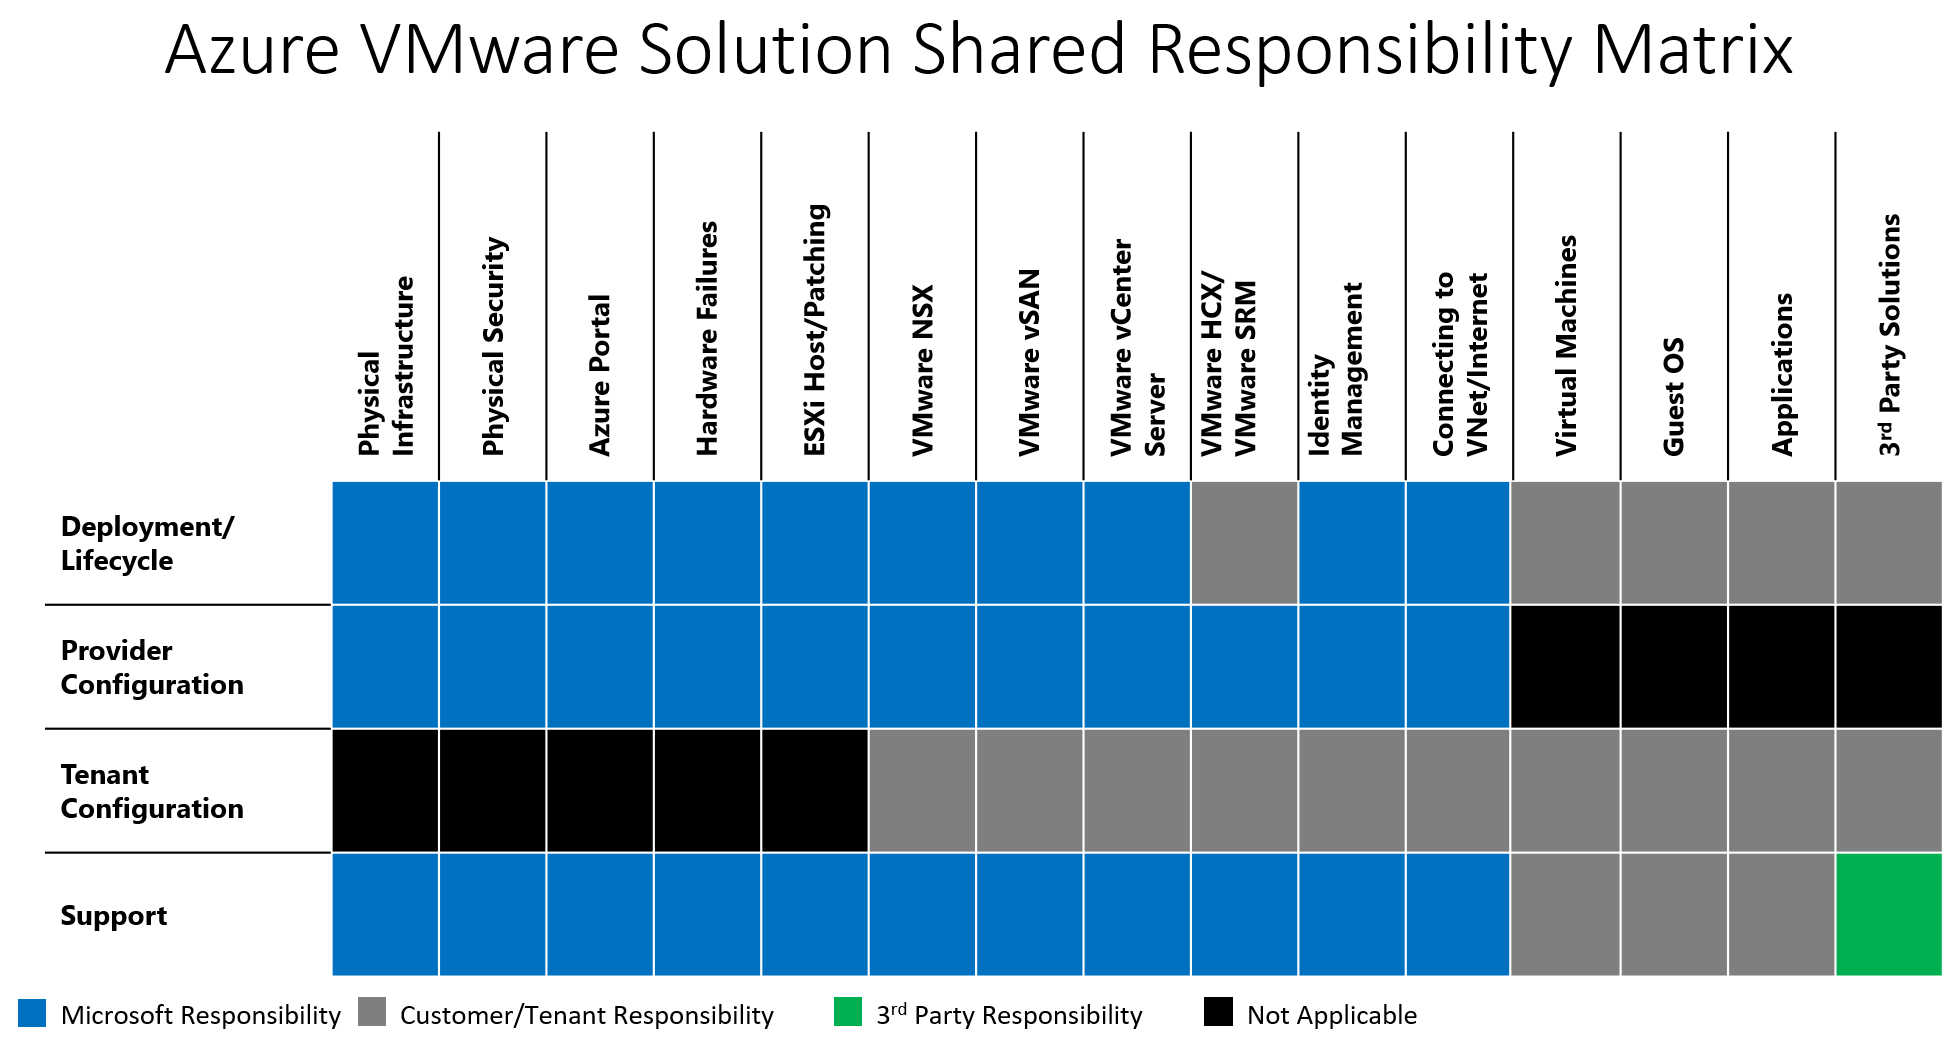
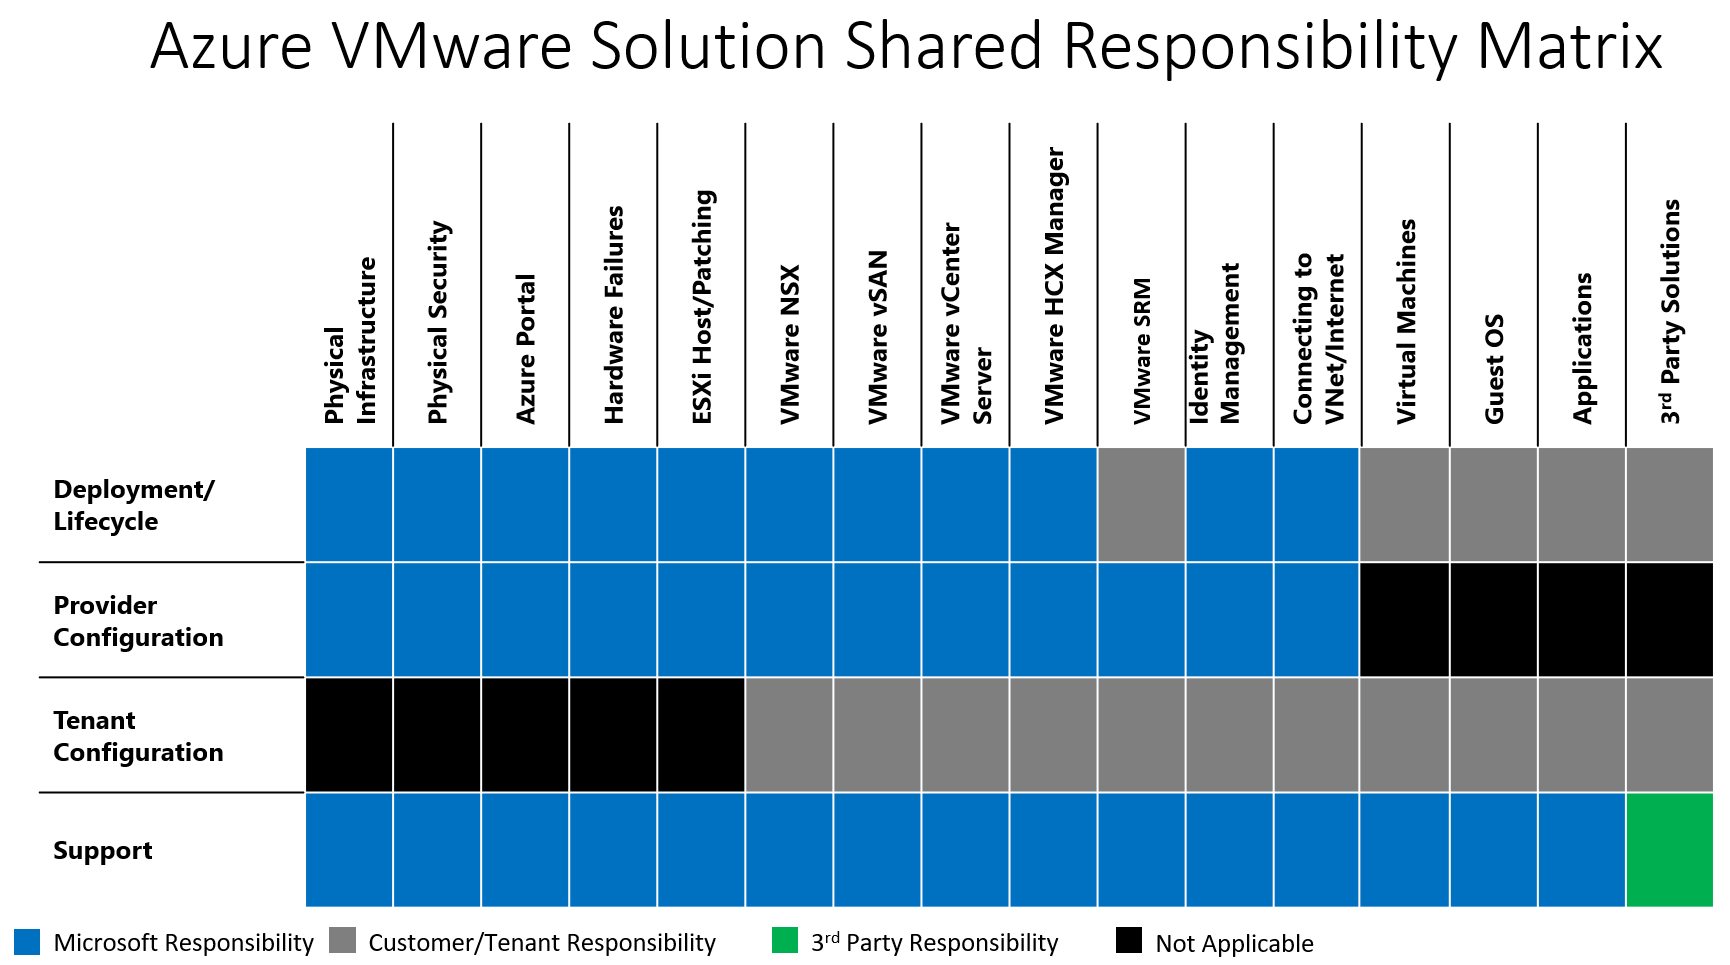
HCX cleanup

Changed region(s): [[0.0, 0.1244, 0.9988, 0.9948], [0.0624, 0.0, 0.9676, 0.0933], [0.0312, 0.8705, 0.0936, 0.9016]]

diff --git a/articles/azure-vmware/introduction.md b/articles/azure-vmware/introduction.md
@@ -3,9 +3,8 @@ title: Introduction
 description: Learn the features and benefits of Azure VMware Solution to deploy and manage VMware-based workloads in Azure.
 ms.topic: overview
 ms.service: azure-vmware
-ms.date: 8/14/2025
+ms.date: 4/24/2025
 ms.custom: engagement-fy23
-# Customer intent: As a cloud architect, I want to deploy and manage VMware-based workloads in Azure using a dedicated private cloud solution, so that I can leverage Azure's infrastructure while maintaining VMware compatibility and maximizing operational efficiency.
 ---
 
 # What is Azure VMware Solution?
@@ -34,7 +33,7 @@ You can deploy new or scale existing private clouds through the Azure portal or 
 
 ## Azure VMware Solution private cloud extension with AV64 node size
 
-The AV64 is an Azure VMware Solution host SKU, which is available to expand the Azure VMware Solution private cloud built with the existing AV36, AV36P, or AV52 SKU. If you want to deploy AV64 directly, refer to [Azure VMware Solution Generation 2](native-introduction.md). Use the [Microsoft documentation](https://azure.microsoft.com/explore/global-infrastructure/products-by-region/?products=azure-vmware) to check for availability of the AV64 SKU in the region. 
+The AV64 is an Azure VMware Solution host SKU, which is available to expand the Azure VMware Solution private cloud built with the existing AV36, AV36P, or AV52 SKU. If you want to deploy AV64 directly, refer to [Azure VMWare Solution in an Azure Virtual Network](native-introduction.md). Use the [Microsoft documentation](https://azure.microsoft.com/explore/global-infrastructure/products-by-region/?products=azure-vmware) to check for availability of the AV64 SKU in the region. 
 
 :::image type="content" source="media/introduction/av64-mixed-sku-topology.png" alt-text="Diagram showing Azure VMware Solution private cloud with AV64 SKU in mixed SKU configuration." border="false" lightbox="media/introduction/av64-mixed-sku-topology.png":::
 
@@ -138,7 +137,7 @@ Azure VMware Solution doesn't store customer data.
 
 ## Host and software lifecycle maintenance
 
-Regular upgrades of the Azure VMware Solution private cloud and VMware software ensure the latest security, stability, and feature sets are running in your private clouds. For more information, see [Host maintenance and lifecycle management](azure-vmware-solution-private-cloud-maintenance-best-practices.md#host-maintenance-and-lifecycle-management).
+Regular upgrades of the Azure VMware Solution private cloud and VMware software ensure the latest security, stability, and feature sets are running in your private clouds. For more information, see [Host maintenance and lifecycle management](azure-vmware-solution-host-remediation.md#host-maintenance-and-lifecycle-management).
 
 ## Monitoring your private cloud
 
@@ -171,7 +170,7 @@ The following table provides a detailed list of roles and responsibilities betwe
 | **Role** | **Task/details** |
 | -------- | ---------------- |
 | Microsoft - Azure VMware Solution | Physical infrastructure<ul><li>Azure regions</li><li>Azure availability zones</li><li>Express Route/Global Reach</ul></li>Compute/Network/Storage<ul><li>Rack and power Bare Metal hosts</li><li>Rack and power network equipment</ul></li>Private cloud deploy/lifecycle<ul><li>VMware ESXi deploy, patch, and upgrade</li><li>VMware vCenter Servers deploy, patch, and upgrade</li><li>VMware NSX deploy, patch, and upgrade</li><li>VMware vSAN deploy, patch, and upgrade</ul></li>Private cloud Networking - VMware NSX provider config<ul><li>Microsoft Edge node/cluster, VMware NSX host preparation</li><li>Provider Tier-0 and Tenant Tier-1 Gateway</li><li>Connectivity from Tier-0 (using BGP) to Azure Network via ExpressRoute</ul></li>Private cloud compute - VMware vCenter Server provider config<ul><li>Create default cluster</li><li>Configure virtual networking for vMotion, Management, vSAN, and others</ul></li>Private cloud backup/restore<ul><li>Back up and restore VMware vCenter Server</li><li>Back up and restore VMware NSX Manager</ul></li>Private cloud health monitoring and corrective actions, for example: replace failed hosts</br><br>(optional) VMware HCX deploys with fully configured compute profile on cloud side as add-on</br><br>(optional) VMware SRM deploys, upgrade, and scale up/down</br><br>Support - Private cloud platforms and VMware HCX      |
-| Customer | Request Azure VMware Solution host quote with Microsoft<br>Plan and create a request for private clouds on Azure portal with:<ul><li>Host count</li><li>Management network range</li><li>Other information</ul></li>Configure private cloud network and security (VMware NSX)<ul><li>Network segments to host applications</li><li>More Tier -1 routers</li><li>Firewall</li><li>VMware NSX LB</li><li>IPsec VPN</li><li>NAT</li><li>Public IP addresses</li><li>Distributed firewall/gateway firewall</li><li>Network extension using VMware HCX or VMware NSX</li><li>AD/LDAP config for RBAC</ul></li>Configure private cloud - VMware vCenter Server<ul><li>AD/LDAP config for RBAC</li><li>Deploy and lifecycle management of Virtual Machines (VMs) and application<ul><li>Install operating systems</li><li>Patch operating systems</li><li>Install antivirus software</li><li>Install backup software</li><li>Install configuration management software</li><li>Install application components</li><li>VM networking using VMware NSX segments</ul></li><li>Migrate Virtual Machines (VMs)<ul><li>VMware HCX configuration</li><li>Live vMotion</li><li>Cold migration</li><li>Content library sync</ul></li></ul></li>Configure private cloud - vSAN<ul><li>Define and maintain vSAN VM policies</li><li>Add hosts to maintain adequate 'slack space'</ul></li>Configure VMware HCX<ul><li>Download and deploy HCA connector OVA in on-premises</li><li>Pairing on-premises VMware HCX connector</li><li>Configure the network profile, compute profile, and service mesh</li><li>Configure VMware HCX network extension/MON</li><li>Upgrade/updates</ul></li>Network configuration to connect to on-premises, virtual network, or internet</br><br>Add or delete hosts requests to cluster from Portal</br><br>Deploy/lifecycle management of partner (third party) solutions      |
+| Customer | Request Azure VMware Solution host quote with Microsoft<br>Plan and create a request for private clouds on Azure portal with:<ul><li>Host count</li><li>Management network range</li><li>Other information</ul></li>Configure private cloud network and security (VMware NSX)<ul><li>Network segments to host applications</li><li>More Tier -1 routers</li><li>Firewall</li><li>VMware NSX LB</li><li>IPsec VPN</li><li>NAT</li><li>Public IP addresses</li><li>Distributed firewall/gateway firewall</li><li>Network extension using VMware HCX or VMware NSX</li><li>AD/LDAP config for RBAC</ul></li>Configure private cloud - VMware vCenter Server<ul><li>AD/LDAP config for RBAC</li><li>Deploy and lifecycle management of Virtual Machines (VMs) and application<ul><li>Install operating systems</li><li>Patch operating systems</li><li>Install antivirus software</li><li>Install backup software</li><li>Install configuration management software</li><li>Install application components</li><li>VM networking using VMware NSX segments</ul></li><li>Migrate Virtual Machines (VMs)<ul><li>VMware HCX configuration</li><li>Live vMotion</li><li>Cold migration</li><li>Content library sync</ul></li></ul></li>Configure private cloud - vSAN<ul><li>Define and maintain vSAN VM policies</li><li>Add hosts to maintain adequate 'slack space'</ul></li>Configure VMware HCX<ul><li>Download and deploy HCA connector OVA in on-premises</li><li>Pairing on-premises VMware HCX connector</li><li>Configure the network profile, compute profile, and service mesh</li><li>Configure VMware HCX network extension/MON</ul></li>Network configuration to connect to on-premises, virtual network, or internet</br><br>Add or delete hosts requests to cluster from Portal</br><br>Deploy/lifecycle management of partner (third party) solutions      |
 | Partner ecosystem | Support for their product/solution. For reference, the following are some of the supported Azure VMware Solution partner solution/product:<ul><li>BCDR - VMware SRM, JetStream, Zerto, and others</li><li>Backup - Veeam, Commvault, Rubrik, and others</li><li>VDI - Horizon, Citrix</li><li>VMware Cloud Director, VMware Cloud Director Availability (VCDA)</li><li>Security solutions - BitDefender, TrendMicro, Checkpoint</li><li>Other VMware products - Aria Suite, NSX Advanced Load Balancer     |
 
 

diff --git a/articles/azure-vmware/upgrade-hcx-azure-vmware-solutions.md b/articles/azure-vmware/upgrade-hcx-azure-vmware-solutions.md
@@ -11,10 +11,13 @@ ms.custom: engagement-fy23
 
 In this article, you learn how to upgrade Azure VMware Solution for HCX service updates, which can include new features, software fixes, or security patches. 
 
-You can update HCX Connector and HCX Cloud systems during separate maintenance windows, but for optimal compatibility, we recommend you update both systems together. Apply service updates during a maintenance window where no new HCX operations are queued up. 
+You can update HCX Connector and HCX Cloud systems during separate maintenance windows, but for optimal compatibility, we recommend you update both systems together. Apply service updates during a maintenance window where no new HCX operations are queued up.
 
->[!IMPORTANT]
->Starting with HCX 4.4.0, HCX appliances install the VMware Photon Operating System. When upgrading to HCX 4.4.x or later from an HCX version prior to version 4.4.0, you must also upgrade all Service Mesh appliances. 
+> [!CRITICAL]
+> Broadcom has announced the end-of-support (EOS) for VMware HCX versions 4.11.0 - 4.11.2, effective February 20, 2026. To ensure supportability and proactiely address this change, Microsoft will soon begin communicating to all Azure VMware Solution customers to upgrade their HCX Cloud Manager to HCX version 4.11.3. HCX 4.11.3 formally deprecates the WAN Optimization feature and, as such, your HCX Cloud Manager will **not** be able to be upgraded if HCX WAN Optimization is still enabled. We advise you to look for alternatives before your upgrade window. Refer to [HCX 4.11.3 release notes](https://techdocs.broadcom.com/us/en/vmware-cis/hcx/vmware-hcx/4-11/hcx-4-11-release-notes/vmware-hcx-411-release-notes.html) for more information on what’s new with HCX 4.11.3.
+
+> [!IMPORTANT]
+> Microsoft now manages the upgrade of **HCX Cloud Manager** on behalf of customers. These upgrades are either rolled out in waves to all customers or scheduled individually based on customer preference. Customers can **select their preferred maintenance window** for the upgrade when prompted by Microsoft. HCX Connector and Service Mesh appliance upgrades remain customer-managed tasks.
 
 ## System requirements 
 
@@ -35,7 +38,7 @@ You can update HCX Connector and HCX Cloud systems during separate maintenance w
 ### Backup HCX 
 - Azure VMware Solution backs up HCX Cloud Manager configuration daily.
 - Use the appliance management interface to create backup of HCX in on-premises, see [Backing Up HCX Manager](https://techdocs.broadcom.com/us/en/vmware-cis/hcx/vmware-hcx/4-10/vmware-hcx-user-guide-4-10/backing-up-and-restoring-hcx-manager/backing-up-hcx-manager.html). You can use the configuration backup to restore the appliance to its state before the backup. The contents of the backup file supersede configuration changes made before restoring the appliance. 
-- HCX cloud manager snapshots are taken automatically during upgrades to HCX 4.4 or later. HCX retains automatic snapshots for 24 hours before deleting them. 
+- HCX Cloud Manager snapshots are taken automatically during upgrades to HCX 4.4 or later. HCX retains automatic snapshots for 24 hours before deleting them. 
 
 - You can use HCX Run commands to take an HCX Cloud Manager snapshot, which is retained for 72 hours, see [HCX Run commands](/azure/azure-vmware/use-hcx-run-commands)
 
@@ -44,8 +47,8 @@ You can update HCX Connector and HCX Cloud systems during separate maintenance w
 ## Upgrade HCX 
 The upgrade process is in two steps: 
 1. Upgrade HCX Manager  
-      1. HCX cloud manager  
-      1. HCX connector (You can update site-paired HCX Managers simultaneously) 
+      1. HCX Cloud Manager (Microsoft-managed)
+      1. HCX Connector (Customer-managed; can be updated in parallel with Cloud Manager) 
 1. Upgrade HCX Service Mesh appliances 
 
 ### Upgrade HCX manager
@@ -63,12 +66,13 @@ The HCX update is first applied to the HCX Manager systems.
 - No VM migrations should be in progress during this upgrade.
 
 **Procedure**
+- **Microsoft-managed:** Microsoft upgrades the **HCX Cloud Manager** on behalf of customers during the agreed maintenance window. Microsoft may initiate mass rollouts of newer validated versions or request customer confirmation prior to upgrade scheduling.  
+- **Customer-managed:** To manually upgrade **HCX Connector** on-premises or perform validation steps, follow the VMware procedure in [Upgrading the HCX Manager](hhttps://techdocs.broadcom.com/us/en/vmware-cis/hcx/vmware-hcx/4-11/vmware-hcx-user-guide-4-11/updating-vmware-hcx/hcx-service-update-procedures/upgrade-hcx-manager-for-connected-sites.html).
 
-To follow the HCX Manager upgrade process, see [Upgrading the HCX Manager](https://techdocs.broadcom.com/us/en/vmware-cis/hcx/vmware-hcx/4-10/vmware-hcx-user-guide-4-10/updating-vmware-hcx/hcx-service-update-procedures/upgrade-hcx-manager-for-connected-sites.html) 
 
 ### Upgrade HCX Service Mesh appliances 
 
-While Service Mesh appliances are upgraded independently to the HCX Manager, they must be upgraded. These appliances are flagged for new available updates anytime the HCX Manager has newer software available.
+While Service Mesh appliances are upgraded independently to the HCX Manager, they must be upgraded to ensure compliance and operability. These appliances are flagged for new available updates anytime the HCX Manager has newer software available.
 
 **What to expect**
 
@@ -85,12 +89,11 @@ While Service Mesh appliances are upgraded independently to the HCX Manager, the
 
 To follow the Service Mesh appliances upgrade process, see [Upgrading the HCX Service Mesh Appliances](https://techdocs.broadcom.com/us/en/vmware-cis/hcx/vmware-hcx/4-10/vmware-hcx-user-guide-4-10/updating-vmware-hcx/hcx-service-update-procedures/upgrade-the-hcx-service-mesh-appliances.html)
 
-## HCX 4.11.0 Upgrade and what it means for current HCX users
+## HCX 4.11.0 and what it means for current HCX users
 
 ### Overview
 
-Broadcom has announced the end-of-support (EOS) for VMware HCX version 4.10.x, effective July 27, 2025. To proactively address this change and ensure continued support, Microsoft will begin upgrading all Azure VMware Solution customers using HCX Manager to HCX version 4.11.0.
-The upgrade process will commence in June 2025. Each customer will receive a notification at least one week prior to their scheduled upgrade window.
+Broadcom has announced the end-of-support (EOS) for VMware HCX version 4.10.x, effective July 27, 2025. To address this change and ensure continued support, Microsoft has upgraded all Azure VMware Solution customers using HCX Manager to at least HCX version 4.11.0.
 
 ### What changes are introduced as part of HCX 4.11.0?
 
@@ -110,17 +113,12 @@ Activation Keys-based licensing is deprecated as of HCX 4.11.0. Activation Keys 
 Moving forward, until customers are upgraded to HCX 4.11.0, they'll need to submit a Support Request to receive the requested upgrade bundle for their chosen HCX connection version. After the upgrade has taken place, customers will find previous and current versions of HCX Connector bundles, including HCX 4.11.0, in their vSAN datastores under a folder named _"AVS_Official_HCX_Connector_Binaries"_.
 
 >[!NOTE]
-> The following HCX functionality is **deprecated** in HCX 4.11.0 and will be **removed** in a future release. HCX 4.11.0 will no longer be supported as of December 24, 2025. Customers should plan to migrate to an alternative solution at the earliest if they use any of the following features:
+> The following HCX functionality is **deprecated** in HCX 4.11.0 and will be **removed** in a future release. HCX 4.11.0 will no longer be supported as of February 20, 2026. Customers should plan to migrate to an alternative solution at the earliest if they use any of the following features:
 > - HCX V2T Migration 
 > - HCX WAN Optimization 
 > - HCX Disaster Recovery 
 > - vCenter Server Plug-in for HCX 
 > - HCX UI - Tracking page in Migration interface
-
-
-### What actions will the customer need to take?
-
-To ensure smooth migration, customers are required to upgrade any paired HCX connectors and service mesh appliances to HCX 4.11.0.  Furthermore, customers may be required to execute a resync operation on each HCX service mesh on both the source and connector sides to ensure that no errors have occurred due to the upgrade.
 
 ## FAQ 
 

diff --git a/articles/azure-vmware/includes/vmware-software-versions.md b/articles/azure-vmware/includes/vmware-software-versions.md
@@ -23,7 +23,7 @@ The following table lists the software versions that are used in new deployments
 | VMware vSAN on-disk format       |    [20](https://knowledge.broadcom.com/external/article?legacyId=2148493) | N/A |
 | VMware vSAN storage architecture |    [Gen 1: OSA, Gen2: ESA](https://blogs.vmware.com/cloud-foundation/2022/08/31/comparing-the-original-storage-architecture-to-the-vsan-8-express-storage-architecture/) | N/A |
 | VMware NSX                       |    [!INCLUDE [nsxt-version](nsxt-version.md)] | 22224317 |
-| VMware HCX                       |    [4.11](https://techdocs.broadcom.com/us/en/vmware-cis/hcx/vmware-hcx/4-11/hcx-4-11-release-notes/vmware-hcx-411-release-notes.html) | 24457395 |
+| VMware HCX                       |    [4.11.1](https://techdocs.broadcom.com/us/en/vmware-cis/hcx/vmware-hcx/4-11/hcx-4-11-release-notes/vmware-hcx-4111-release-notes.html) | 24846706 |
 | VMware Live Site Recovery        |    [9.0.2.1](https://techdocs.broadcom.com/us/en/vmware-cis/live-recovery/live-site-recovery/9-0/release-notes/id-b55981c1-41e6-4ad3-b379-ce565212add3.html) | 24401761 |
 | VMware vSphere Replication       |    [9.0.2.1](https://techdocs.broadcom.com/us/en/vmware-cis/live-recovery/vsphere-replication/9-0/release-notes/vsphere-replication-9021-release-notes.html) | 24383568 |
 
